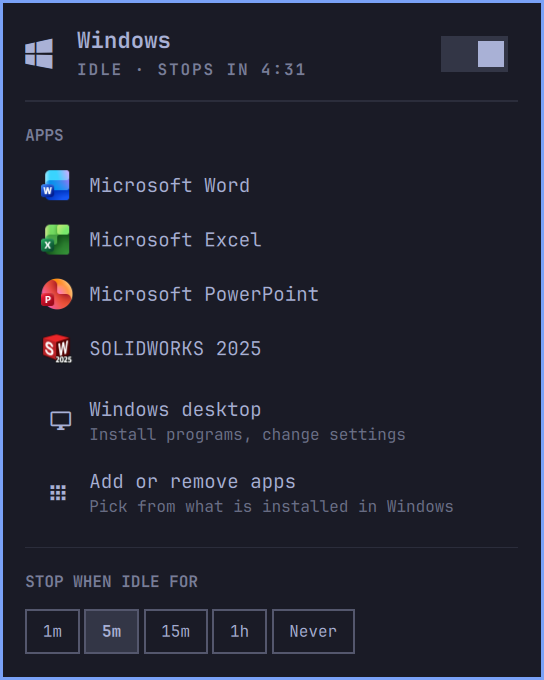
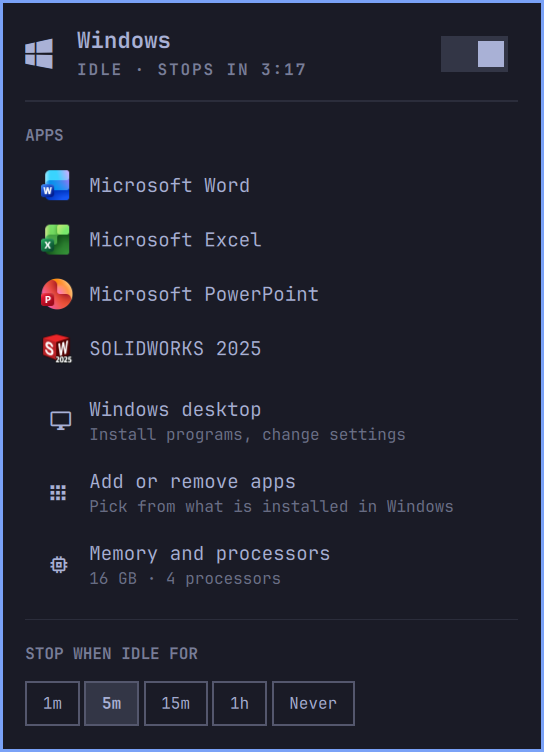
Add winapp resources: change the VM's memory and processors
`winapp resources` shows what the Windows VM has and what the computer has;
`--ram` and `--cores` change them, and `--pick` asks in a terminal, which is
what the panel's new "Memory and processors" row opens.

The values live in Omarchy's root-owned compose file, so the change goes
through Omarchy's own writer with the full set it expects. Everything but
memory and processors is handed back as it is; the disk size is read from
the compose file or the disk image and never guessed, because dockur would
grow the disk to match a larger figure.

diff --git a/Panel.qml b/Panel.qml
@@ -34,6 +34,7 @@ Panel {
   readonly property string glyphDesktop: String.fromCodePoint(0xF0379)
   readonly property string glyphApps: String.fromCodePoint(0xF003B)
   readonly property string glyphInstall: String.fromCodePoint(0xF01DA)
+  readonly property string glyphChip: String.fromCodePoint(0xF035B)
 
   // --- state, as reported by `winapp state` -----------------------------------
   property bool installed: true
@@ -45,6 +46,8 @@ Panel {
   property real clockOffset: 0         // helper clock minus ours, in seconds
   property int idleLeft: 0
   property var apps: []
+  property string ram: ""              // "16G", empty when not known
+  property string cores: ""
   property string lastError: ""
   // What was just asked for, until the helper's own state catches up.
   property string pending: ""          // "" | "start" | "stop"
@@ -75,6 +78,7 @@ Panel {
     for (var i = 0; i < apps.length; i++) list.push({ "kind": "app", "index": i })
     list.push({ "kind": "desktop" })
     list.push({ "kind": "manage" })
+    list.push({ "kind": "resources" })
     list.push({ "kind": "idle" })
     return list
   }
@@ -118,6 +122,7 @@ Panel {
     else if (row.kind === "app") launch(apps[row.index].id)
     else if (row.kind === "desktop") openDesktop()
     else if (row.kind === "manage") manageApps()
+    else if (row.kind === "resources") changeResources()
     else if (row.kind === "idle") setIdle(idleOptions[idleCursor].value)
     else if (row.kind === "install") installVm()
   }
@@ -160,6 +165,8 @@ Panel {
     vm = parsed.vm
     windows = parsed.windows || 0
     desktop = parsed.desktop === true
+    ram = String(parsed.ram || "")
+    cores = String(parsed.cores || "")
     idleMinutes = parsed.idleMinutes
     idleDeadline = parsed.idleDeadline || 0
     clockOffset = (parsed.now || 0) - Date.now() / 1000
@@ -228,6 +235,12 @@ Panel {
   }
 
   function manageApps() { inTerminal(shellQuote(win.command) + " manage") }
+  function changeResources() { inTerminal(shellQuote(win.command) + " resources --pick") }
+
+  function resourcesText() {
+    if (ram === "" || cores === "") return "How much of this computer Windows gets"
+    return ram.replace(/G$/, " GB") + " · " + cores + (cores === "1" ? " processor" : " processors")
+  }
   function installVm() { inTerminal("omarchy-windows-vm install && " + shellQuote(win.command) + " setup") }
 
   function startVm() {
@@ -363,6 +376,7 @@ Panel {
         if (t === "r" || t === "R") win.refresh()
         else if (t === "d" || t === "D") win.openDesktop()
         else if (t === "a" || t === "A") win.manageApps()
+        else if (t === "m" || t === "M") win.changeResources()
       }
 
       Flickable {
@@ -582,6 +596,15 @@ Panel {
                 title: "Add or remove apps"
                 subtitle: "Pick from what is installed in Windows"
                 onActivated: win.manageApps()
+              }
+
+              ActionRow {
+                width: parent.width
+                kind: "resources"
+                glyph: win.glyphChip
+                title: "Memory and processors"
+                subtitle: win.resourcesText()
+                onActivated: win.changeResources()
               }
             }
           }

diff --git a/README.md b/README.md
@@ -132,13 +132,30 @@ Click the Windows icon in the bar, or bind a key to
 | An app | Open it. Boots Windows first if needed. |
 | Windows desktop | The full desktop, for installing programs and changing settings. |
 | Add or remove apps | The checklist of installed programs. |
+| Memory and processors | How much of this computer Windows gets. |
 | Stop when idle for | How long the VM stays up after the last app closes. |
 
 Keyboard: `↑` `↓` or `j` `k` to move, `Enter` to activate, `←` `→` on the idle
-row, `d` for the desktop, `a` to add apps, `r` to refresh, `Esc` to close.
+row, `d` for the desktop, `a` to add apps, `m` for memory and processors, `r` to
+refresh, `Esc` to close.
 
 The icon can be hidden while Windows is off, in Setup > Plugins or with
 `omarchy bar set ryancoxrbc.winapp hideWhenStopped true --json`.
+
+## Memory and processors
+
+Windows gets the memory and processors you chose when you installed the VM. To
+change them, use *Memory and processors* in the panel, or:
+
+```bash
+winapp resources                     # what it has now, and what this computer has
+winapp resources --ram 8 --cores 4   # either option alone works too
+```
+
+This rewrites the VM's configuration through Omarchy's own helper, so it asks
+for your password once. Windows apps have to be closed, and the new values
+apply the next time Windows starts. The disk and everything on it are left
+exactly as they are.
 
 ## Passwords
 
@@ -174,6 +191,7 @@ winapp apps                  list your apps       winapp icons   refetch icons
 
 winapp start | stop | status
 winapp idle <minutes>        0 = never stop by itself
+winapp resources [--ram <GB>] [--cores <n>]   the VM's memory and processors
 winapp shares | share add <name> <folder> | share remove <name>
 
 winapp setup | doctor [--deep] | logs | passwordless on|off | uninstall

diff --git a/docs/how-it-works.md b/docs/how-it-works.md
@@ -34,6 +34,14 @@ are missing, which is why the first start after a reboot asks for a password
 even with sudoless Docker. And the "is it running" question is asked every few
 seconds by the bar, so it must never need a password: hence the port probe.
 
+Memory and processors are part of that compose file. `winapp resources`
+changes them by handing Omarchy's privileged writer the same full set of
+values its installer does (memory, processors, disk size, account, time zone),
+with only the first two altered. The disk size is read back from the compose
+file or, where that cannot be read, from the size of the disk image, and the
+command refuses rather than guess: dockur would take a larger figure as a
+request to grow the disk.
+
 ## Apps are RemoteApp sessions
 
 An app is started with FreeRDP in RemoteApp mode: one RDP connection that shows

diff --git a/CHANGELOG.md b/CHANGELOG.md
@@ -1,5 +1,15 @@
 # Changelog
 
+## 2.1.0 - 2026-10-05
+
+### Added
+
+- `winapp resources` shows how much memory and how many processors the
+  Windows VM has, and changes them: `winapp resources --ram 8 --cores 4`. The
+  bar panel has a "Memory and processors" row that opens a picker. The change
+  goes through Omarchy's own configuration writer, so it asks for your
+  password, and applies the next time Windows starts.
+
 ## 2.0.1 - 2026-10-05
 
 ### Fixed
